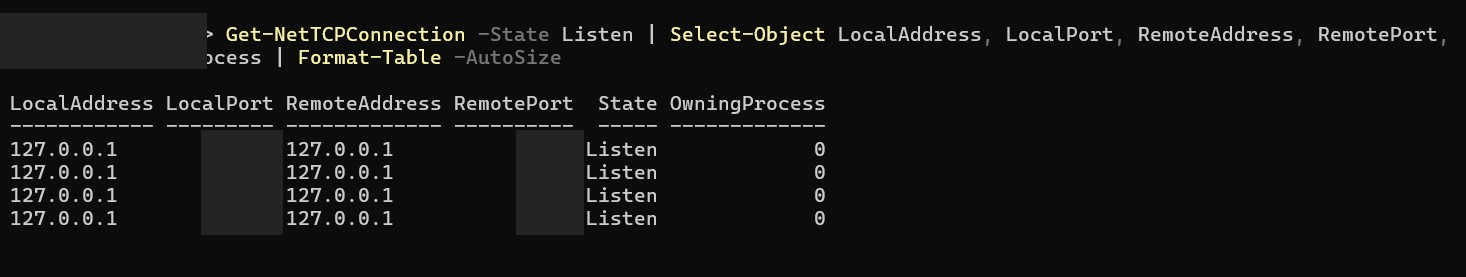
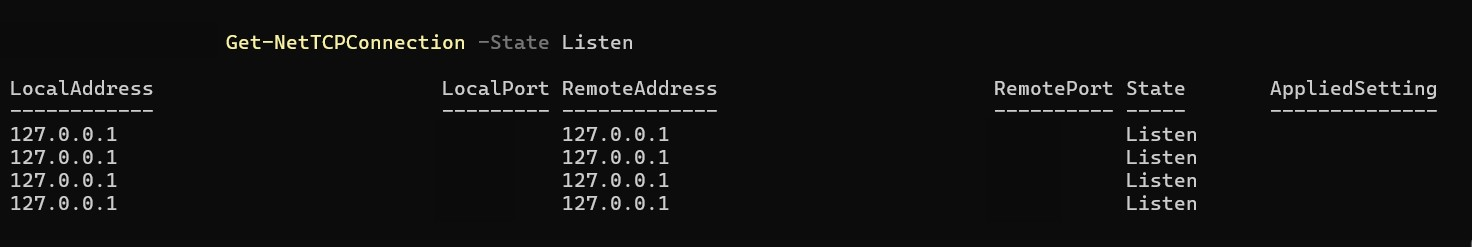
Use simplified TCP listener screenshot

diff --git a/02-CMD-and-PowerShell/PowerShell-Commands.md b/02-CMD-and-PowerShell/PowerShell-Commands.md
@@ -14,7 +14,7 @@
 | `Get-NetIPAddress` | IP address details for network interfaces. | The output included Wi-Fi, loopback, virtual VMware adapters, Bluetooth, and other interfaces, with IPv4 and IPv6 records. Exact addresses are redacted. |
 | `Get-ComputerInfo` | Computer, operating system, and firmware information. | The output contains many system details. The registered owner and Windows Product ID are redacted in the shared screenshot. |
 | `Get-LocalUser` | Local user accounts. | Not yet practised. |
-| `Get-NetTCPConnection` | TCP connections and their states. | Filtered for `Listen`; four loopback rows appeared. `OwningProcess` showed `0`, so this output did not identify an application. Port values are redacted in the shared screenshot. |
+| `Get-NetTCPConnection` | TCP connections and their states. | `-State Listen` returned four rows using `127.0.0.1` for the local and remote addresses. Port values are redacted in the shared screenshot. |
 | `Get-WinEvent` | Windows event log records. | Not yet practised. |
 | `Get-EventLog` | Entries from supported event logs. | Not yet practised. |
 
@@ -43,10 +43,10 @@ ChatGPT appears twice because the command lists individual processes; it does no
 Command used:
 
 ```powershell
-Get-NetTCPConnection -State Listen | Select-Object LocalAddress, LocalPort, RemoteAddress, RemotePort, State, OwningProcess | Format-Table -AutoSize
+Get-NetTCPConnection -State Listen
 ```
 
-The output showed four rows in the `Listen` state using `127.0.0.1` for both addresses. `OwningProcess` was `0`, so this result did not identify an application. Port values are covered in the public screenshot.
+The output showed four rows in the `Listen` state using `127.0.0.1` for both addresses. Port values are covered in the public screenshot.
 
 ## Evidence
 

diff --git a/02-CMD-and-PowerShell/System-Information-Collection.md b/02-CMD-and-PowerShell/System-Information-Collection.md
@@ -13,7 +13,7 @@
 | 4 | List running processes. | Completed | Used `Get-Process`; the output can be compared with Task Manager. |
 | 5 | Identify the five processes using the most memory. | Completed | Sorted by `WorkingSet64`; values were converted from bytes to MiB. The result is recorded in `PowerShell-Commands.md`. |
 | 6 | List running Windows services. | Completed | Filtered `Get-Service` to `Status -eq 'Running'`. The screenshot captures the beginning of the results. |
-| 7 | Identify listening TCP connections. | Completed | `Get-NetTCPConnection -State Listen` returned four rows using `127.0.0.1` for local and remote addresses. The reported state was `Listen`; `OwningProcess` was `0`, so this output did not identify an application. Port values are omitted from public evidence. |
+| 7 | Identify listening TCP connections. | Completed | `Get-NetTCPConnection -State Listen` returned four rows using `127.0.0.1` for local and remote addresses, all in the `Listen` state. Port values are omitted from public evidence. |
 | 8 | Find local user accounts. | Not yet completed | Use `Get-LocalUser`. |
 
 ## Remaining assignment
